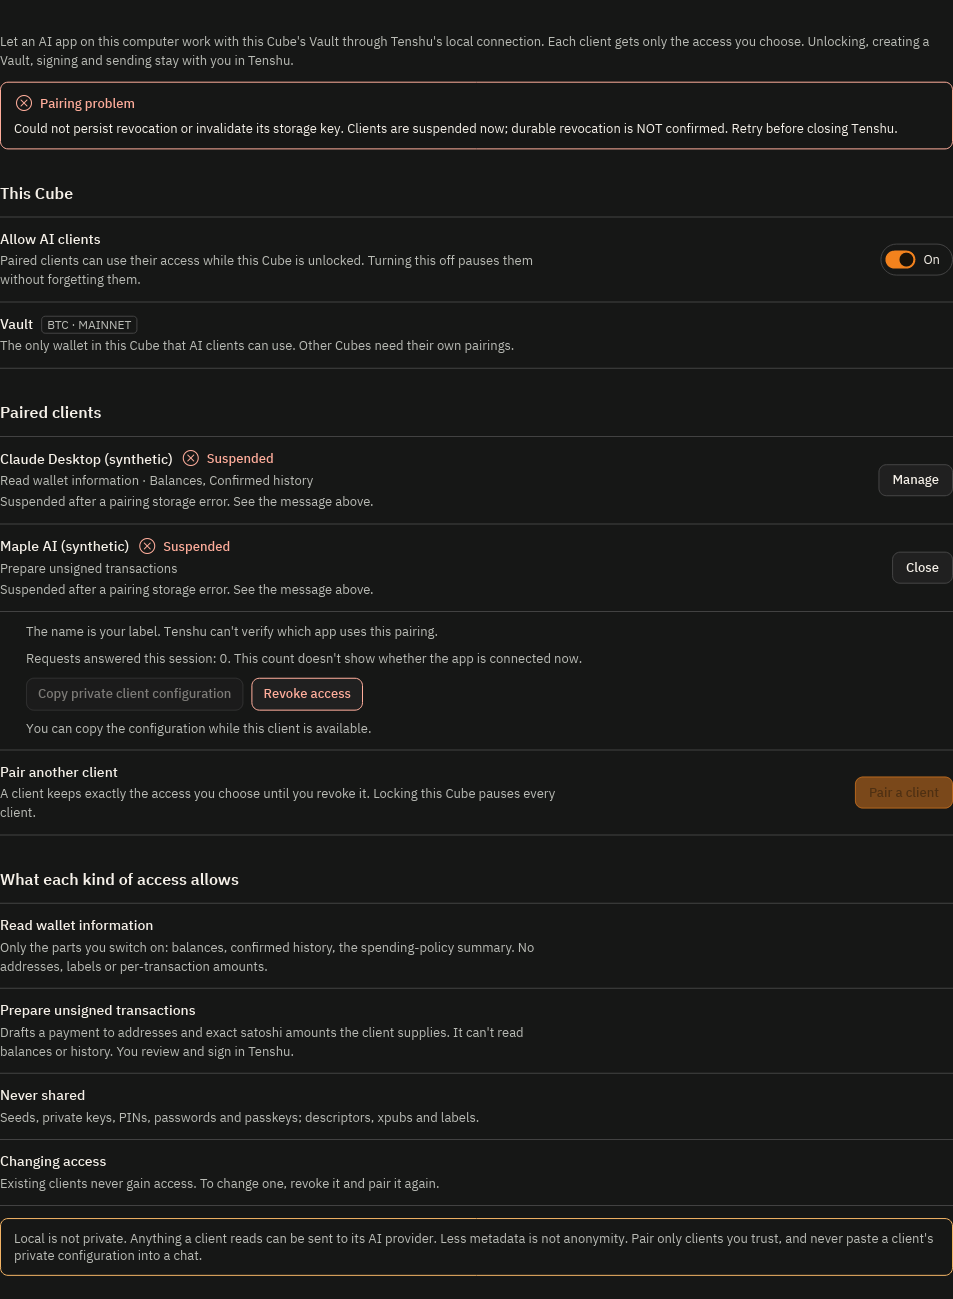
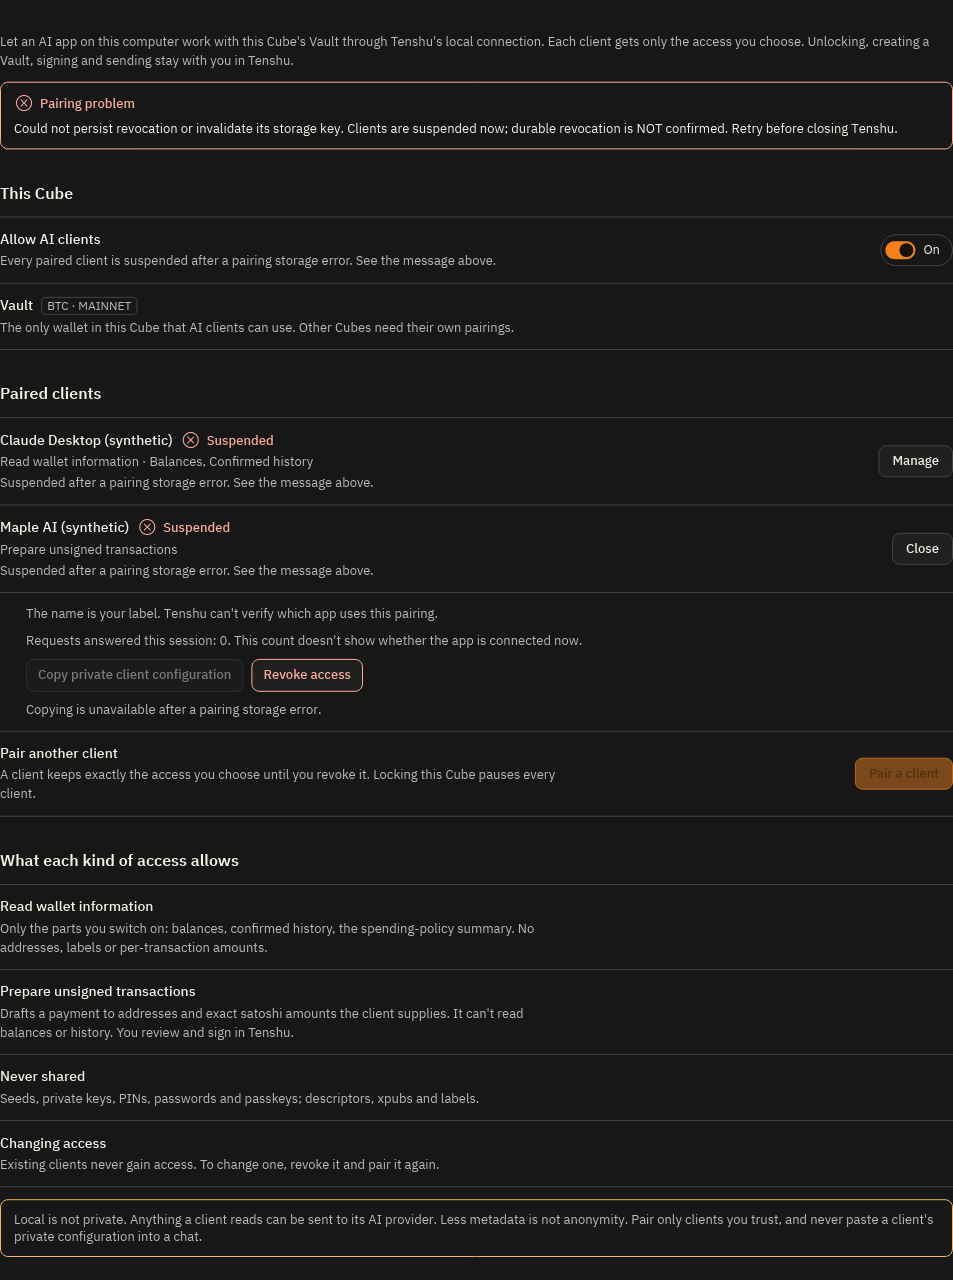
Tighten AI access focus targets and the off-state note
Second review round:

- The form's Turn on sends its own intent, so only that control moves
  focus to the client name; the Cube-wide switch keeps focus.
- Never send focus to a disabled control: closing the form after a
  storage failure leaves focus alone, and a confirmed revocation falls
  back to the Cube switcher when the AI access switch is disabled.
- The form's off-state note says turning access on resumes existing
  clients and grants no new access.
- Restore the chain_tag doc comment and tie chain_supported to the
  MCP chain set.
- Refresh the after captures for the changed copy.

diff --git a/coincube-gui/src/app/local_mcp.rs b/coincube-gui/src/app/local_mcp.rs
@@ -64,6 +64,9 @@ pub enum Message {
     TogglePairing,
     /// Enable or disable MCP for the current unlocked session.
     Enable(bool),
+    /// The pairing form's Turn on: `Enable(true)`, after which focus moves
+    /// to the form's first field because the pressed control disappears.
+    TurnOnFromForm,
     /// Select whether the current Vault may be shared.
     Wallet(bool),
     /// Edit balance, history or policy access by capability index.
@@ -190,12 +193,26 @@ impl Settings {
             } else {
                 presentation::FORM_ENABLE_ID
             })),
+            // Pair a client is disabled after a storage failure.
+            FocusAfter::TogglePairing if self.pairing_poisoned => None,
             FocusAfter::TogglePairing => Some(Id::from(presentation::PAIR_OPEN_ID)),
             FocusAfter::Enable if self.pairing_open && self.enabled => {
                 Some(Id::from(presentation::NAME_ID))
             }
             FocusAfter::Enable => None,
         }
+    }
+
+    /// Whether the Cube-wide switch can take focus on the read-access page:
+    /// it is enabled while on, or while a Vault on a documented chain can pair.
+    pub(crate) fn switch_focusable(&self, supported: bool) -> bool {
+        self.enabled
+            || (supported
+                && self
+                    .pairing_location
+                    .as_ref()
+                    .and_then(pairings::Location::chain)
+                    .is_none_or(presentation::chain_supported))
     }
 
     pub(crate) fn pending_revoke(&self) -> Option<(&str, &str)> {
@@ -656,6 +673,9 @@ impl Settings {
             #[cfg(feature = "mcp-transactions")]
             Message::ReviewTransaction { .. } | Message::ReviewTransactionChecked { .. } => {
                 return None;
+            }
+            Message::TurnOnFromForm => {
+                return self.update(Message::Enable(true), wallet, daemon, supported, cube_id);
             }
             Message::Enable(value) => {
                 self.copied = None;

diff --git a/coincube-gui/src/app/local_mcp/presentation.rs b/coincube-gui/src/app/local_mcp/presentation.rs
@@ -91,10 +91,10 @@ fn cube_chain(settings: &Settings) -> Option<crate::chain::ChainId> {
         .and_then(pairings::Location::chain)
 }
 
-/// The scope tag naming an exact supported chain. Bitcoin and Bitcoin Blake2b
-/// share address and key encodings, so the tag is never inferred from either.
-/// The five exact chains local MCP documents and supports.
-fn chain_supported(chain: crate::chain::ChainId) -> bool {
+/// The five exact chains local MCP documents and supports; the same set as
+/// `coincube_mcp::Chain` and `transactions::supported_chain`, kept here so the
+/// page needs no optional feature.
+pub(super) fn chain_supported(chain: crate::chain::ChainId) -> bool {
     matches!(
         chain,
         crate::chain::ChainId::Bitcoin
@@ -105,6 +105,8 @@ fn chain_supported(chain: crate::chain::ChainId) -> bool {
     )
 }
 
+/// The scope tag naming an exact supported chain. Bitcoin and Bitcoin Blake2b
+/// share address and key encodings, so the tag is never inferred from either.
 pub(super) fn chain_tag(chain: Option<crate::chain::ChainId>) -> &'static str {
     match chain {
         Some(crate::chain::ChainId::Bitcoin) => "BTC · MAINNET",
@@ -1249,12 +1251,12 @@ fn access_off_note<'a>() -> Ui<'a> {
     page::note(
         Tone::Warn,
         muted(localized_copy(
-            "AI access is off for this Cube. Turn it on to pair a client; that alone grants nothing.",
+            "AI access is off for this Cube. Turn it on to pair a client. That resumes existing clients with their access and grants no new access.",
         )),
         Some(page::button(
             FORM_ENABLE_ID,
             localized_copy("Turn on"),
-            Some(message(Message::Enable(true))),
+            Some(message(Message::TurnOnFromForm)),
         )),
     )
 }

diff --git a/coincube-gui/src/app/local_mcp/presentation/design_gallery.rs b/coincube-gui/src/app/local_mcp/presentation/design_gallery.rs
@@ -410,6 +410,41 @@ fn focus_follows_controls_that_disappear() {
         settings.focus_after(FocusAfter::TogglePairing),
         Some(Id::from(PAIR_OPEN_ID))
     );
+    // After a storage failure Pair a client is disabled, so closing the
+    // form leaves focus alone rather than sending it to a disabled control.
+    settings.pairing_poisoned = true;
+    assert_eq!(settings.focus_after(FocusAfter::TogglePairing), None);
+}
+
+/// The form's Turn on is its own intent (so only it moves focus) and turns
+/// AI access on exactly as the Cube-wide switch does.
+#[test]
+fn form_turn_on_is_the_switch_with_its_own_focus() {
+    let mut settings = Settings {
+        pairing_open: true,
+        ..Settings::default()
+    };
+    let emitted = capture::activate(
+        view_for_cube(
+            leak(Settings {
+                pairing_open: true,
+                ..Settings::default()
+            }),
+            true,
+        ),
+        iced::advanced::widget::Id::new(FORM_ENABLE_ID),
+        (1024, 768),
+        true,
+    );
+    assert!(emitted
+        .iter()
+        .any(|m| matches!(m, view::Message::LocalMcp(Message::TurnOnFromForm))));
+    settings.update(Message::TurnOnFromForm, None, None, true, "turn-on");
+    assert!(settings.enabled);
+    assert_eq!(
+        settings.focus_after(super::super::FocusAfter::Enable),
+        Some(iced::advanced::widget::Id::from(NAME_ID))
+    );
 }
 
 /// A Vault on a chain outside the documented five (here Signet) is not

diff --git a/coincube-gui/src/app/mod.rs b/coincube-gui/src/app/mod.rs
@@ -6489,7 +6489,9 @@ impl App {
                     // "Pair a client" is hidden while the form is open and
                     // disabled after a storage failure.
                     Some(iced::advanced::widget::Id::from(
-                        if self.mcp_proposals_supported() || self.mcp_supported() {
+                        if self.mcp_proposals_supported()
+                            || (self.mcp_supported() && self.local_mcp.switch_focusable(true))
+                        {
                             "tenshu.ai-access.enable"
                         } else {
                             view::nav::shell::CUBE_SWITCHER_ID
@@ -6503,7 +6505,7 @@ impl App {
             let focus_later = match &message {
                 local_mcp::Message::Pair => Some(local_mcp::FocusAfter::Pair),
                 local_mcp::Message::TogglePairing => Some(local_mcp::FocusAfter::TogglePairing),
-                local_mcp::Message::Enable(true) => Some(local_mcp::FocusAfter::Enable),
+                local_mcp::Message::TurnOnFromForm => Some(local_mcp::FocusAfter::Enable),
                 _ => None,
             };
             #[cfg(feature = "mcp-transactions")]
